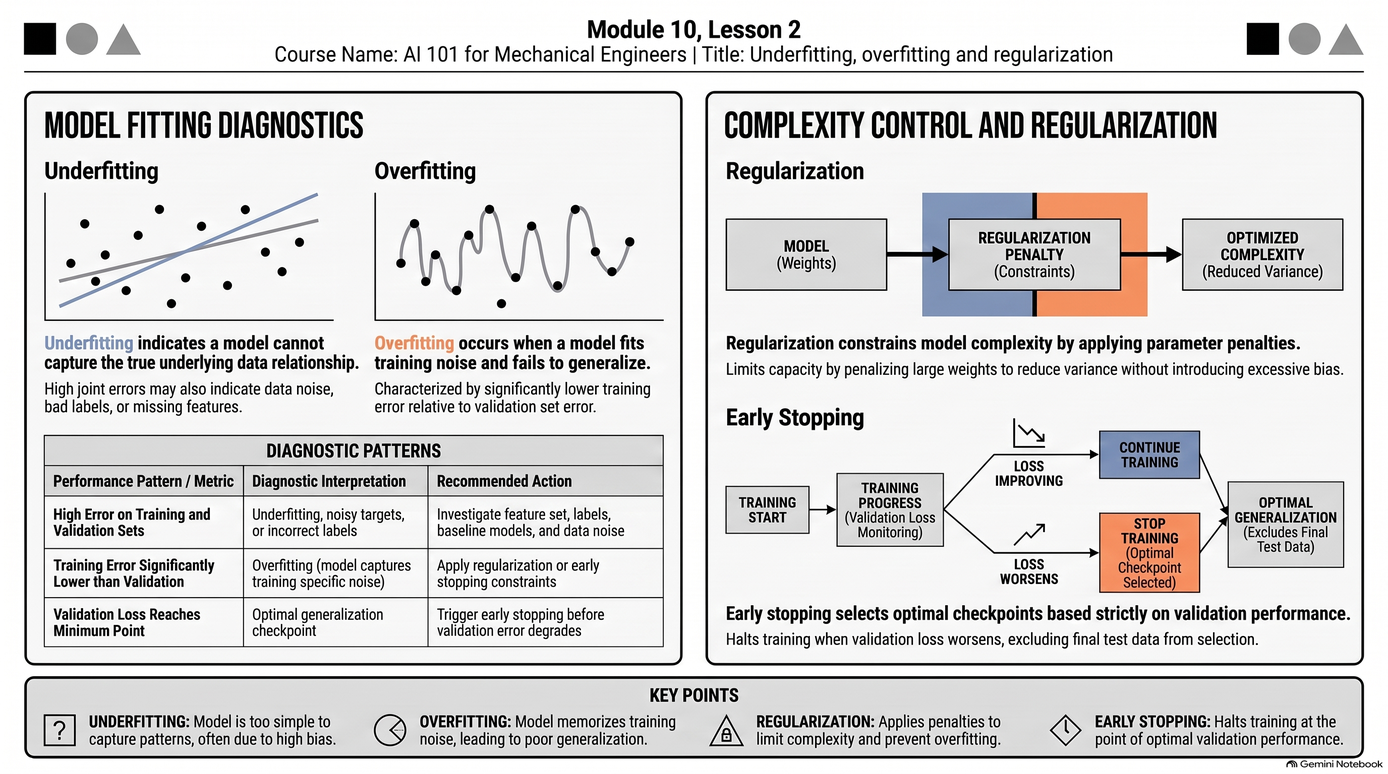
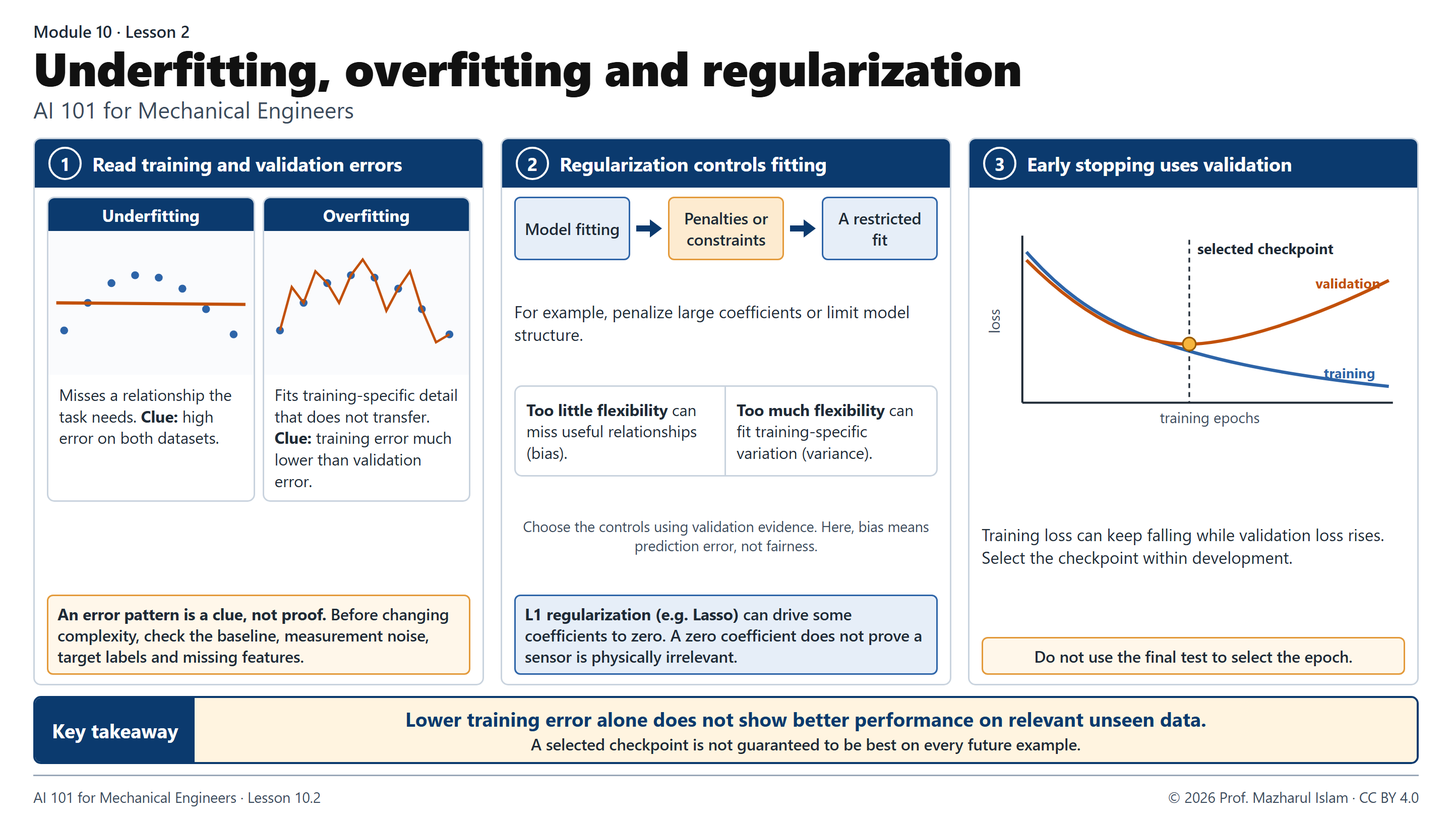
AI 101 Module 10: replace lesson infographics with revised versions
Built the Lesson 10.1-10.3 infographics from the lesson text in the shared
exact-text template, with diagrams for cross-validation folds, under- and
overfitting, early stopping and prediction-time leakage, and merged accurate
points from the GPT drafts. Updated image alt text.

diff --git a/AI101/AI_101_for_Mechanical_Engineers.html b/AI101/AI_101_for_Mechanical_Engineers.html
@@ -148,7 +148,7 @@ h.append(E('h3',{text:'Gemini Notebook'}),E('p',{},E('a',{href:review.mindMap,ta
 h.append(E('h3',{text:'Flashcards'}));deck(h,m.id);h.append(E('div',{class:'actions'},link('Proceed to Quiz',`#/m/${m.num}/quiz`,'btn primary')));
 }
 function modulePage(h,r){let m=MODS[r.n-1];title(h,'Module '+m.num+' / 16',m.title);let tabs=E('nav',{'aria-label':'Module sections',class:'tabs'});m.lessons.forEach((l,i)=>tabs.append(link((P.lessons[l.id]?'✓ ':'')+(i+1)+'. '+l.title,`#/m/${m.num}/${i+1}`,r.sub===String(i+1)?'active':'')));if(WALK[m.id])tabs.append(link('Code',`#/m/${m.num}/code`,r.sub==='code'?'active':''));tabs.append(link('Review',`#/m/${m.num}/review`,['review','cards'].includes(r.sub)?'active':''),link('Quiz',`#/m/${m.num}/quiz`,r.sub==='quiz'?'active':''));h.append(tabs);if(r.sub==='quiz'){let region=E('div');h.append(region);quiz(region,m.id);return;}if(r.sub==='code'){codePage(h,m);return;}if(['review','cards'].includes(r.sub)){moduleReview(h,m);return;}let l=m.lessons[+r.sub-1];h.append(E('h2',{text:l.title}));let outcomes=E('details',{},E('summary',{text:'Module learning outcomes'}));let ul=E('ul');m.outcomes.forEach(o=>ul.append(E('li',{text:o})));outcomes.append(ul);h.append(outcomes);prose(h,l.text);
-const media={m01l1:{video:'5PXqVJoDBgI',audio:'media/1_1-The_Math_Behind_Industrial_AI.m4a',image:'media/1_1-Relationships_Among_AI_Concepts.png',alt:'Lesson 1.1 infographic: AI contains machine learning, which contains deep learning; classification predicts a category while generation produces content; different components need different checks; data science runs from measure and clean to analyse, model and communicate'},m01l2:{video:'FSDlKaTM3Ws',audio:'media/1_2-How_Engineers_Distinguish_AI_From_Automation.m4a',image:'media/1_2-Automation_and_AI_Engineering_Concepts.png',alt:'Lesson 1.2 infographic: a fixed-rule thermostat example of automation; robots sense, decide and act using conventional control, AI or both; narrow AI compared with proposed AGI; five questions on inputs, learned components, outputs, permitted actions and failure consequences'},m01l3:{video:'MOJL4aPNaBY',audio:'media/1_3-Engineering_Decisions_Must_Come_Before_AI.m4a',image:'media/1_3-Defining_an_Engineering_Decision.png',alt:'Lesson 1.3 infographic: deciding whether to request a pump inspection, from measurements through a learned detector, fault score, engineering review and decision; a score is an estimate; operating domain and escalation path; limits of synthetic examples'},m02l1:{video:'ND8u7CSiTqs',audio:'media/2_1-Why_Mechanical_Engineering_Needs_Hybrid_AI.m4a',image:'media/2_1.png',alt:'Lesson 2.1 infographic: physics-based, data-driven and hybrid models compared; pump example with hydraulic power 100,000 Pa × 0.02 m³/s = 2,000 W and input power 2,000 W / 0.8 = 2,500 W; residual r = 2,800 W − 2,500 W = +300 W shows a difference but not its cause'},m02l2:{video:'p4ldXqJdehc',audio:'media/2_2-Why_Mechanical_Engineers_Need_Hybrid_AI.m4a',image:'media/2_2.png',alt:'Lesson 2.2 infographic: table matching prediction, forecasting, diagnosis, control and optimization to what each does and an example; ML training optimization changes model parameters to reduce loss, while engineering optimization changes design or operating variables within physical constraints'},m02l3:{video:'Ldz3IBLDv_Y',audio:'media/2_3-How_Mechanical_Engineers_Use_AI.m4a',image:'media/2_3.png',alt:'Lesson 2.3 infographic: start with the simplest adequate method; when ML might help; four checks of purpose, inputs, baseline and coverage; hybrid pump example with a +300 W residual; compare with the baseline before adding complexity'},m03l1:{video:'bUh9kmRi0_g',audio:'media/3_1-Mapping_Heavy_Machinery_to_Machine_Learning.m4a',image:'media/3_1.png',alt:'Lesson 3.1 infographic: dataset, sample, features, target and label; a pump-test table with flow, pressure rise and shaft speed as features X and measured electrical power as target y; X has shape (120, 3) and y has shape (120,); keep each row matched by test ID'},m03l2:{video:'N0vvkVlTw2o',audio:'media/3_2-Why_Engineering_AI_Needs_Sensor_Metadata.m4a',image:'media/3_2.png',alt:'Lesson 3.2 infographic: metadata such as units, sensor ID, calibration and sampling frequency; raw readings versus a windowed RMS feature; machine IDs and ordinal or nominal categories are not measurements; ground truth is a reference that can contain errors'},m03l3:{video:'O9RXTf5J5-s',audio:'media/3_3-Why_Predictive_AI_Fails_Without_Physics.m4a',image:'media/3_3.png',alt:'Lesson 3.3 infographic: a timeline showing that a repair code recorded after a failure is information leakage for an earlier warning; correlation, prediction and causation compared using flow rate and motor current'},m04l1:{video:'rfXJ_JKeYUs',audio:'media/4_1.m4a',image:'media/4_1.png',alt:'Lesson 4.1 infographic: supervised learning with regression and classification; unsupervised clustering, where a cluster is not automatically a fault category; anomaly alerts that need investigation and independent evidence; semi-supervised learning'},m04l2:{video:'C5h-mjjw18o',audio:'media/4_2.m4a',image:'media/4_2.png',alt:'Lesson 4.2 infographic: masked-signal reconstruction in four steps of observation, constructed input, constructed target and objective; a neural network can use supervised, self-supervised or reinforcement feedback, so architecture does not determine the learning setup'},m04l3:{video:'fgg8jxrDiJw',audio:'media/4_3.m4a',image:'media/4_3.png',alt:'Lesson 4.3 infographic: agent and simulated environment exchanging actions, state and reward; thermal-control example mapping state, action, environment, reward and policy; reward and safety constraints kept separate, beginning with bounded simulation'},m05l1:{video:'0xyZPsXtMyY',audio:'media/5_1.m4a',image:'media/5_1.png',alt:'Lesson 5.1 infographic: warning signs such as negative absolute pressure, duplicate timestamps and mixed W and kW; investigate missing readings before imputing; mean imputation of 20, 22, missing, 24 gives 22, which reduces visible variation; learn replacement values from training data only'},m05l2:{video:'DM1sfD_7cyk',audio:'media/5_2.m4a',image:'media/5_2.png',alt:'Lesson 5.2 infographic: min-max scaling with 25 °C in bounds 0–100 °C giving 0.25; standardization with x = 60 °C, training mean 40 °C and standard deviation 10 °C giving z = 2; one-hot encoding of categories A, B and C; fit on training data and apply stored rules'},m05l3:{video:'6oYBKyxmUFc',audio:'media/5_3.m4a',image:'media/5_3.png',alt:'Lesson 5.3 infographic: build features such as hydraulic power P_h = Δp × Q from engineering knowledge; exclude readings after prediction time; split, fit on training folds, store and apply without refitting; record the input contract of units, missing-value rules and derived features'},m06l1:{video:'M3Wq88DQj0s',audio:'media/6_1.m4a',image:'media/6_1.png',alt:'Lesson 6.1 infographic: a linear model ŷ = b0 + b1·x maps input to prediction while a learning algorithm such as least squares fits its parameters; training, inference and retraining are separate; worked example ŷ = 2 + 3 × 4 = 14'},m06l2:{video:'4SjSZjJOXro',audio:'media/6_2.m4a',image:'media/6_2.png',alt:'Lesson 6.2 infographic: learned parameters, hyperparameters and supplied physical values have different roles; training loss differs from engineering acceptance criteria; MAE and MSE weight errors differently, and a low training loss does not establish safe use'},m06l3:{video:'RSWwn7m9Ph4',audio:'media/6_3.m4a',image:'media/6_3.png',alt:'Lesson 6.3 infographic: compare with a fair baseline on the same examples; the physical baseline MAE of 0.8 kW beats the ML model MAE of 1.2 kW; record the context of a result; a random seed helps repeat a procedure but does not prove accuracy'},m07l1:{video:'M8Mqp4O3bAs',audio:'media/7_1.m4a',image:'media/7_1.png',alt:'Lesson 7.1 infographic: the model ΔT = b0 + b1·P with units K, W, K and K/W; with b0 = 1 K, b1 = 0.6 K/W and P = 10 W the predicted rise is 7 K, and a measured 8 K gives residual +1 K; least squares fits the coefficients, inference applies them'},m07l2:{video:'uvZOy3Jhj5Y',audio:'media/7_2.m4a',image:'media/7_2.png',alt:'Lesson 7.2 infographic: signed residuals of +1, −2 and +3 K; MAE = 2 K and RMSE ≈ 2.160 K, both in target units; R² = 1 − SSE/SST is dimensionless and about −0.1053 here, worse than predicting the mean; inspect residuals by operating condition'},m07l3:{video:'2Czwc72Fchc',audio:'media/7_3.m4a',image:'media/7_3.png',alt:'Lesson 7.3 infographic: define the prediction problem; keep training, validation and final test separate; compare with training-mean and physical baselines and match the split to the task; report units, provenance, held-out metrics and operating limits'},m08l1:{video:'NKojhzCHcZE',audio:'media/8_1.m4a',image:'media/8_1.png',alt:'Lesson 8.1 infographic: a model score is compared with a threshold to predict fault or healthy; a score between 0 and 1 is not automatically a calibrated probability; choose the threshold on validation data; confusion matrix with fault as the positive class showing TP, FN, FP and TN'},m08l2:{video:'zOTYwt-Tr54',audio:'media/8_2.m4a',image:'media/8_2.png',alt:'Lesson 8.2 infographic: with TP = 8, FP = 2, FN = 4 and TN = 86, accuracy is 94%, precision 80%, recall about 66.7% and F1 about 72.7%; each metric answers a different question, and high accuracy alone does not describe fault detection'},m08l3:{video:'b0OM6lczsRk',audio:'media/8_3.m4a',image:'media/8_3.png',alt:'Lesson 8.3 infographic: with 99 healthy cases and 1 fault, always predicting healthy gives 99% accuracy but 0% fault recall; select the threshold on validation and test it separately; an alert leads to evidence review and an authorized decision, weighing false alarms against missed faults'},m09l1:{video:'y80ne8Vybo4',audio:'media/9_1.m4a',image:'media/9_1.png',alt:'Lesson 9.1 infographic: linear regression predicts a number from weighted features; logistic regression estimates a class probability through a link function; k-nearest neighbours uses nearby examples in feature space; a support vector machine learns a separating boundary with a margin; units and scaling change distances; choose methods by evidence'},m09l2:{video:'2YmEhBzF2MY',audio:'media/9_2.m4a',image:'media/9_2.png',alt:'Lesson 9.2 infographic: a decision tree partitions inputs into piecewise regions; a random forest aggregates randomized trees built independently; boosting adds models in sequence to correct remaining errors; a table of each method’s practical concern; learned thresholds are not physical fault limits'},m09l3:{video:'9APUCDA6pVk',audio:'media/9_3.m4a',image:'media/9_3.png',alt:'Lesson 9.3 infographic: k-means groups unlabelled data around chosen centres, and k is not a count of faults; PCA projects data onto high-variance directions, which may miss a rare fault; compare candidates with the same folds and a locked final test; scaling affects distances'},m10l1:{video:'B279XXNadbY',audio:'media/10_1.m4a',image:'media/10_1.png',alt:'Training, validation, final test boundaries and leakage prevention infographic'},m10l2:{video:'uMrToW1n1Vg',audio:'media/10_2.m4a',image:'media/10_2.png',alt:'Underfitting, overfitting, regularization and early stopping infographic'},m10l3:{video:'ZQJwwFjbULQ',audio:'media/10_3.m4a',image:'media/10_3.png',alt:'Preprocessing, temporal, target-derived leakage and reproducible evaluation infographic'},m11l1:{video:'6kmxgxU5OtU',audio:'media/11_1.m4a',image:'media/11_1.png',alt:'Neuron weighted sums, ReLU activation and nonlinear layer composition infographic'},m11l2:{video:'HpPJ6ckgXU4',audio:'media/11_2.m4a',image:'media/11_2.png',alt:'Loss, backpropagation, gradients and parameter updates infographic'},m11l3:{video:'yGjRY3dHNCw',audio:'media/11_3.m4a',image:'media/11_3.png',alt:'Batches, epochs, validation checkpoints and generalization limits infographic'},m12l1:{video:'3mFpYxI7084',audio:'media/12_1.m4a',image:'media/12_1.png',alt:'Data representations, architecture selection and component-level holdout infographic'},m12l2:{video:'iQtAabOUAOw',audio:'media/12_2.m4a',image:'media/12_2.png',alt:'Sequence architectures, attention mechanisms and forecast issue-time boundaries infographic'},m12l3:{video:'o1sjsbKAx9c',audio:'media/12_3.m4a',image:'media/12_3.png',alt:'Signal windowing, timestamp integrity, forecast horizons and temporal leakage prevention infographic'},m13l1:{video:'5BVmXgZNgpg',audio:'media/13_1.m4a',image:'media/13_1.png',alt:'Generative model categories and engineering evidence limits infographic'},m13l2:{video:'Se06_TxJul8',audio:'media/13_2.m4a',image:'media/13_2.png',alt:'Tokens, context windows, embeddings and technical disambiguation limits infographic'},m13l3:{video:'XoYcvrMW2y8',audio:'media/13_3.m4a',image:'media/13_3.png',alt:'Pretraining, fine-tuning and transfer learning versus temporary prompting and retrieval context infographic'},m14l1:{video:'1XHxHqd6P0k',audio:'media/14_1.m4a',image:'media/14_1.png',alt:'Engineering prompt structure and verification infographic'},m14l2:{video:'7oluOfQTwac',audio:'media/14_2.m4a',image:'media/14_2.png',alt:'Retrieval-augmented generation, evidence checks and inference-time context infographic'},m14l3:{video:'-ZsxFY5h02I',audio:'media/14_3.m4a',image:'media/14_3.png',alt:'Engineering tools, APIs, agent coordination and human oversight infographic'},m15l1:{video:'dNbzZDsyR_I',audio:'media/15_1.m4a',image:'media/15_1.png',alt:'Aleatoric and epistemic uncertainty, operating coverage, calibration, distribution shift and drift infographic'},m15l2:{video:'ZDOon3TWimU',audio:'media/15_2.m4a',image:'media/15_2.png',alt:'Verification versus validation, independent physical evidence, provenance and reproducibility infographic'},m15l3:{video:'Kg4aBcgdeC8',audio:'media/15_3.m4a',image:'media/15_3.png',alt:'Output verification, privacy and security, human oversight, disclosure and resource responsibility infographic'},m16l1:{video:'9Q3hvMOewXg',audio:'media/16_1.m4a',image:'media/16_1.png',alt:'Engineering application evidence needs, surrogate models, optimization, digital twins and physics-informed learning infographic'},m16l2:{video:'O-9Nl2pD5po',audio:'media/16_2.m4a',image:'media/16_2.png',alt:'Mini-project scoping, data provenance, fair evaluation, baselines, metrics and reproducibility infographic'},m16l3:{video:'59A56rQ40ts',audio:'media/16_3.m4a',image:'media/16_3.png',alt:'Browser knowledge score versus practical evidence, mini-project rubric, reproducibility and responsible AI-use infographic'}};
+const media={m01l1:{video:'5PXqVJoDBgI',audio:'media/1_1-The_Math_Behind_Industrial_AI.m4a',image:'media/1_1-Relationships_Among_AI_Concepts.png',alt:'Lesson 1.1 infographic: AI contains machine learning, which contains deep learning; classification predicts a category while generation produces content; different components need different checks; data science runs from measure and clean to analyse, model and communicate'},m01l2:{video:'FSDlKaTM3Ws',audio:'media/1_2-How_Engineers_Distinguish_AI_From_Automation.m4a',image:'media/1_2-Automation_and_AI_Engineering_Concepts.png',alt:'Lesson 1.2 infographic: a fixed-rule thermostat example of automation; robots sense, decide and act using conventional control, AI or both; narrow AI compared with proposed AGI; five questions on inputs, learned components, outputs, permitted actions and failure consequences'},m01l3:{video:'MOJL4aPNaBY',audio:'media/1_3-Engineering_Decisions_Must_Come_Before_AI.m4a',image:'media/1_3-Defining_an_Engineering_Decision.png',alt:'Lesson 1.3 infographic: deciding whether to request a pump inspection, from measurements through a learned detector, fault score, engineering review and decision; a score is an estimate; operating domain and escalation path; limits of synthetic examples'},m02l1:{video:'ND8u7CSiTqs',audio:'media/2_1-Why_Mechanical_Engineering_Needs_Hybrid_AI.m4a',image:'media/2_1.png',alt:'Lesson 2.1 infographic: physics-based, data-driven and hybrid models compared; pump example with hydraulic power 100,000 Pa × 0.02 m³/s = 2,000 W and input power 2,000 W / 0.8 = 2,500 W; residual r = 2,800 W − 2,500 W = +300 W shows a difference but not its cause'},m02l2:{video:'p4ldXqJdehc',audio:'media/2_2-Why_Mechanical_Engineers_Need_Hybrid_AI.m4a',image:'media/2_2.png',alt:'Lesson 2.2 infographic: table matching prediction, forecasting, diagnosis, control and optimization to what each does and an example; ML training optimization changes model parameters to reduce loss, while engineering optimization changes design or operating variables within physical constraints'},m02l3:{video:'Ldz3IBLDv_Y',audio:'media/2_3-How_Mechanical_Engineers_Use_AI.m4a',image:'media/2_3.png',alt:'Lesson 2.3 infographic: start with the simplest adequate method; when ML might help; four checks of purpose, inputs, baseline and coverage; hybrid pump example with a +300 W residual; compare with the baseline before adding complexity'},m03l1:{video:'bUh9kmRi0_g',audio:'media/3_1-Mapping_Heavy_Machinery_to_Machine_Learning.m4a',image:'media/3_1.png',alt:'Lesson 3.1 infographic: dataset, sample, features, target and label; a pump-test table with flow, pressure rise and shaft speed as features X and measured electrical power as target y; X has shape (120, 3) and y has shape (120,); keep each row matched by test ID'},m03l2:{video:'N0vvkVlTw2o',audio:'media/3_2-Why_Engineering_AI_Needs_Sensor_Metadata.m4a',image:'media/3_2.png',alt:'Lesson 3.2 infographic: metadata such as units, sensor ID, calibration and sampling frequency; raw readings versus a windowed RMS feature; machine IDs and ordinal or nominal categories are not measurements; ground truth is a reference that can contain errors'},m03l3:{video:'O9RXTf5J5-s',audio:'media/3_3-Why_Predictive_AI_Fails_Without_Physics.m4a',image:'media/3_3.png',alt:'Lesson 3.3 infographic: a timeline showing that a repair code recorded after a failure is information leakage for an earlier warning; correlation, prediction and causation compared using flow rate and motor current'},m04l1:{video:'rfXJ_JKeYUs',audio:'media/4_1.m4a',image:'media/4_1.png',alt:'Lesson 4.1 infographic: supervised learning with regression and classification; unsupervised clustering, where a cluster is not automatically a fault category; anomaly alerts that need investigation and independent evidence; semi-supervised learning'},m04l2:{video:'C5h-mjjw18o',audio:'media/4_2.m4a',image:'media/4_2.png',alt:'Lesson 4.2 infographic: masked-signal reconstruction in four steps of observation, constructed input, constructed target and objective; a neural network can use supervised, self-supervised or reinforcement feedback, so architecture does not determine the learning setup'},m04l3:{video:'fgg8jxrDiJw',audio:'media/4_3.m4a',image:'media/4_3.png',alt:'Lesson 4.3 infographic: agent and simulated environment exchanging actions, state and reward; thermal-control example mapping state, action, environment, reward and policy; reward and safety constraints kept separate, beginning with bounded simulation'},m05l1:{video:'0xyZPsXtMyY',audio:'media/5_1.m4a',image:'media/5_1.png',alt:'Lesson 5.1 infographic: warning signs such as negative absolute pressure, duplicate timestamps and mixed W and kW; investigate missing readings before imputing; mean imputation of 20, 22, missing, 24 gives 22, which reduces visible variation; learn replacement values from training data only'},m05l2:{video:'DM1sfD_7cyk',audio:'media/5_2.m4a',image:'media/5_2.png',alt:'Lesson 5.2 infographic: min-max scaling with 25 °C in bounds 0–100 °C giving 0.25; standardization with x = 60 °C, training mean 40 °C and standard deviation 10 °C giving z = 2; one-hot encoding of categories A, B and C; fit on training data and apply stored rules'},m05l3:{video:'6oYBKyxmUFc',audio:'media/5_3.m4a',image:'media/5_3.png',alt:'Lesson 5.3 infographic: build features such as hydraulic power P_h = Δp × Q from engineering knowledge; exclude readings after prediction time; split, fit on training folds, store and apply without refitting; record the input contract of units, missing-value rules and derived features'},m06l1:{video:'M3Wq88DQj0s',audio:'media/6_1.m4a',image:'media/6_1.png',alt:'Lesson 6.1 infographic: a linear model ŷ = b0 + b1·x maps input to prediction while a learning algorithm such as least squares fits its parameters; training, inference and retraining are separate; worked example ŷ = 2 + 3 × 4 = 14'},m06l2:{video:'4SjSZjJOXro',audio:'media/6_2.m4a',image:'media/6_2.png',alt:'Lesson 6.2 infographic: learned parameters, hyperparameters and supplied physical values have different roles; training loss differs from engineering acceptance criteria; MAE and MSE weight errors differently, and a low training loss does not establish safe use'},m06l3:{video:'RSWwn7m9Ph4',audio:'media/6_3.m4a',image:'media/6_3.png',alt:'Lesson 6.3 infographic: compare with a fair baseline on the same examples; the physical baseline MAE of 0.8 kW beats the ML model MAE of 1.2 kW; record the context of a result; a random seed helps repeat a procedure but does not prove accuracy'},m07l1:{video:'M8Mqp4O3bAs',audio:'media/7_1.m4a',image:'media/7_1.png',alt:'Lesson 7.1 infographic: the model ΔT = b0 + b1·P with units K, W, K and K/W; with b0 = 1 K, b1 = 0.6 K/W and P = 10 W the predicted rise is 7 K, and a measured 8 K gives residual +1 K; least squares fits the coefficients, inference applies them'},m07l2:{video:'uvZOy3Jhj5Y',audio:'media/7_2.m4a',image:'media/7_2.png',alt:'Lesson 7.2 infographic: signed residuals of +1, −2 and +3 K; MAE = 2 K and RMSE ≈ 2.160 K, both in target units; R² = 1 − SSE/SST is dimensionless and about −0.1053 here, worse than predicting the mean; inspect residuals by operating condition'},m07l3:{video:'2Czwc72Fchc',audio:'media/7_3.m4a',image:'media/7_3.png',alt:'Lesson 7.3 infographic: define the prediction problem; keep training, validation and final test separate; compare with training-mean and physical baselines and match the split to the task; report units, provenance, held-out metrics and operating limits'},m08l1:{video:'NKojhzCHcZE',audio:'media/8_1.m4a',image:'media/8_1.png',alt:'Lesson 8.1 infographic: a model score is compared with a threshold to predict fault or healthy; a score between 0 and 1 is not automatically a calibrated probability; choose the threshold on validation data; confusion matrix with fault as the positive class showing TP, FN, FP and TN'},m08l2:{video:'zOTYwt-Tr54',audio:'media/8_2.m4a',image:'media/8_2.png',alt:'Lesson 8.2 infographic: with TP = 8, FP = 2, FN = 4 and TN = 86, accuracy is 94%, precision 80%, recall about 66.7% and F1 about 72.7%; each metric answers a different question, and high accuracy alone does not describe fault detection'},m08l3:{video:'b0OM6lczsRk',audio:'media/8_3.m4a',image:'media/8_3.png',alt:'Lesson 8.3 infographic: with 99 healthy cases and 1 fault, always predicting healthy gives 99% accuracy but 0% fault recall; select the threshold on validation and test it separately; an alert leads to evidence review and an authorized decision, weighing false alarms against missed faults'},m09l1:{video:'y80ne8Vybo4',audio:'media/9_1.m4a',image:'media/9_1.png',alt:'Lesson 9.1 infographic: linear regression predicts a number from weighted features; logistic regression estimates a class probability through a link function; k-nearest neighbours uses nearby examples in feature space; a support vector machine learns a separating boundary with a margin; units and scaling change distances; choose methods by evidence'},m09l2:{video:'2YmEhBzF2MY',audio:'media/9_2.m4a',image:'media/9_2.png',alt:'Lesson 9.2 infographic: a decision tree partitions inputs into piecewise regions; a random forest aggregates randomized trees built independently; boosting adds models in sequence to correct remaining errors; a table of each method’s practical concern; learned thresholds are not physical fault limits'},m09l3:{video:'9APUCDA6pVk',audio:'media/9_3.m4a',image:'media/9_3.png',alt:'Lesson 9.3 infographic: k-means groups unlabelled data around chosen centres, and k is not a count of faults; PCA projects data onto high-variance directions, which may miss a rare fault; compare candidates with the same folds and a locked final test; scaling affects distances'},m10l1:{video:'B279XXNadbY',audio:'media/10_1.m4a',image:'media/10_1.png',alt:'Lesson 10.1 infographic: training fits parameters, validation chooses settings and the final test assesses the locked procedure; five-fold cross-validation of 100 examples trains on 80 and validates on 20 each round; match the split to forecasting, unseen equipment or independent designs; many rows do not prove independence'},m10l2:{video:'uMrToW1n1Vg',audio:'media/10_2.m4a',image:'media/10_2.png',alt:'Lesson 10.2 infographic: underfitting misses a relationship while overfitting follows training-specific detail; regularization adds penalties or constraints and L1 can zero coefficients; early stopping selects a checkpoint where validation loss starts to rise, never using the final test'},m10l3:{video:'ZQJwwFjbULQ',audio:'media/10_3.m4a',image:'media/10_3.png',alt:'Lesson 10.3 infographic: four leakage routes of preprocessing, future readings, outcome-derived inputs and duplicate events; fit transformations only inside training folds; exclude the reading at t+1 from a feature for prediction time t; lock the procedure before the final test and record split identifiers, seeds and versions'},m11l1:{video:'6kmxgxU5OtU',audio:'media/11_1.m4a',image:'media/11_1.png',alt:'Neuron weighted sums, ReLU activation and nonlinear layer composition infographic'},m11l2:{video:'HpPJ6ckgXU4',audio:'media/11_2.m4a',image:'media/11_2.png',alt:'Loss, backpropagation, gradients and parameter updates infographic'},m11l3:{video:'yGjRY3dHNCw',audio:'media/11_3.m4a',image:'media/11_3.png',alt:'Batches, epochs, validation checkpoints and generalization limits infographic'},m12l1:{video:'3mFpYxI7084',audio:'media/12_1.m4a',image:'media/12_1.png',alt:'Data representations, architecture selection and component-level holdout infographic'},m12l2:{video:'iQtAabOUAOw',audio:'media/12_2.m4a',image:'media/12_2.png',alt:'Sequence architectures, attention mechanisms and forecast issue-time boundaries infographic'},m12l3:{video:'o1sjsbKAx9c',audio:'media/12_3.m4a',image:'media/12_3.png',alt:'Signal windowing, timestamp integrity, forecast horizons and temporal leakage prevention infographic'},m13l1:{video:'5BVmXgZNgpg',audio:'media/13_1.m4a',image:'media/13_1.png',alt:'Generative model categories and engineering evidence limits infographic'},m13l2:{video:'Se06_TxJul8',audio:'media/13_2.m4a',image:'media/13_2.png',alt:'Tokens, context windows, embeddings and technical disambiguation limits infographic'},m13l3:{video:'XoYcvrMW2y8',audio:'media/13_3.m4a',image:'media/13_3.png',alt:'Pretraining, fine-tuning and transfer learning versus temporary prompting and retrieval context infographic'},m14l1:{video:'1XHxHqd6P0k',audio:'media/14_1.m4a',image:'media/14_1.png',alt:'Engineering prompt structure and verification infographic'},m14l2:{video:'7oluOfQTwac',audio:'media/14_2.m4a',image:'media/14_2.png',alt:'Retrieval-augmented generation, evidence checks and inference-time context infographic'},m14l3:{video:'-ZsxFY5h02I',audio:'media/14_3.m4a',image:'media/14_3.png',alt:'Engineering tools, APIs, agent coordination and human oversight infographic'},m15l1:{video:'dNbzZDsyR_I',audio:'media/15_1.m4a',image:'media/15_1.png',alt:'Aleatoric and epistemic uncertainty, operating coverage, calibration, distribution shift and drift infographic'},m15l2:{video:'ZDOon3TWimU',audio:'media/15_2.m4a',image:'media/15_2.png',alt:'Verification versus validation, independent physical evidence, provenance and reproducibility infographic'},m15l3:{video:'Kg4aBcgdeC8',audio:'media/15_3.m4a',image:'media/15_3.png',alt:'Output verification, privacy and security, human oversight, disclosure and resource responsibility infographic'},m16l1:{video:'9Q3hvMOewXg',audio:'media/16_1.m4a',image:'media/16_1.png',alt:'Engineering application evidence needs, surrogate models, optimization, digital twins and physics-informed learning infographic'},m16l2:{video:'O-9Nl2pD5po',audio:'media/16_2.m4a',image:'media/16_2.png',alt:'Mini-project scoping, data provenance, fair evaluation, baselines, metrics and reproducibility infographic'},m16l3:{video:'59A56rQ40ts',audio:'media/16_3.m4a',image:'media/16_3.png',alt:'Browser knowledge score versus practical evidence, mini-project rubric, reproducibility and responsible AI-use infographic'}};
 let extra=media[l.id];if(extra){
 let box=E('section',{class:'learning-media','aria-label':'Lesson learning resources'});
 const resourceLink=(text,href,download=false)=>E('a',{href,target:'_blank',rel:'noopener',...(download?{download:''}:{}),text});
